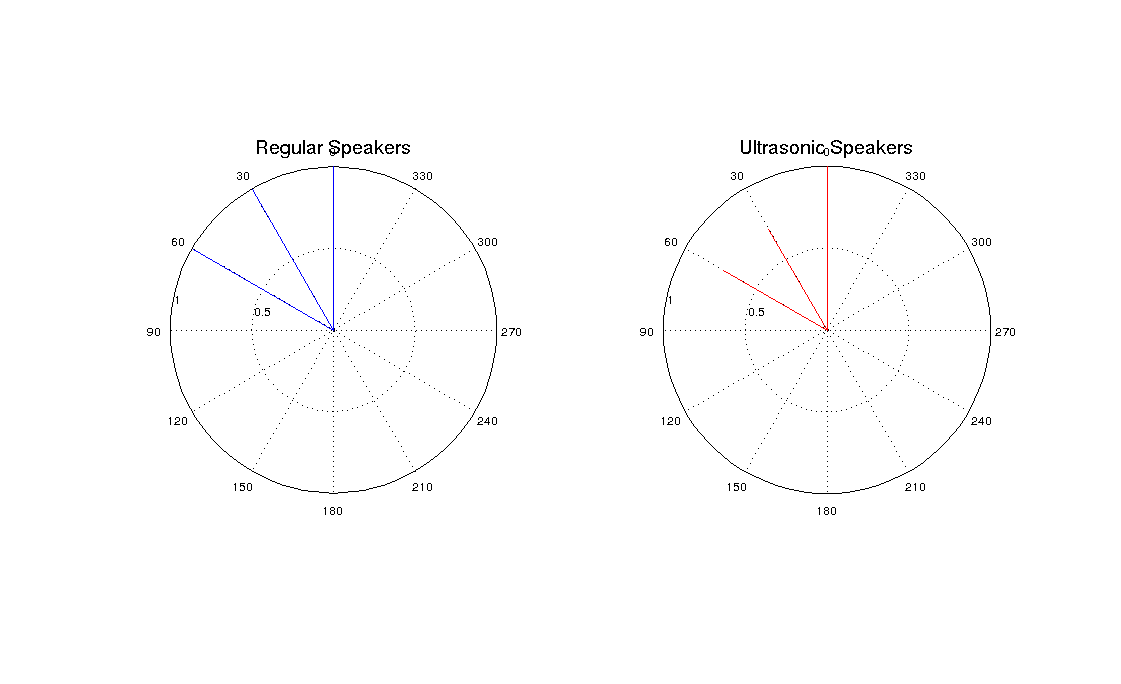
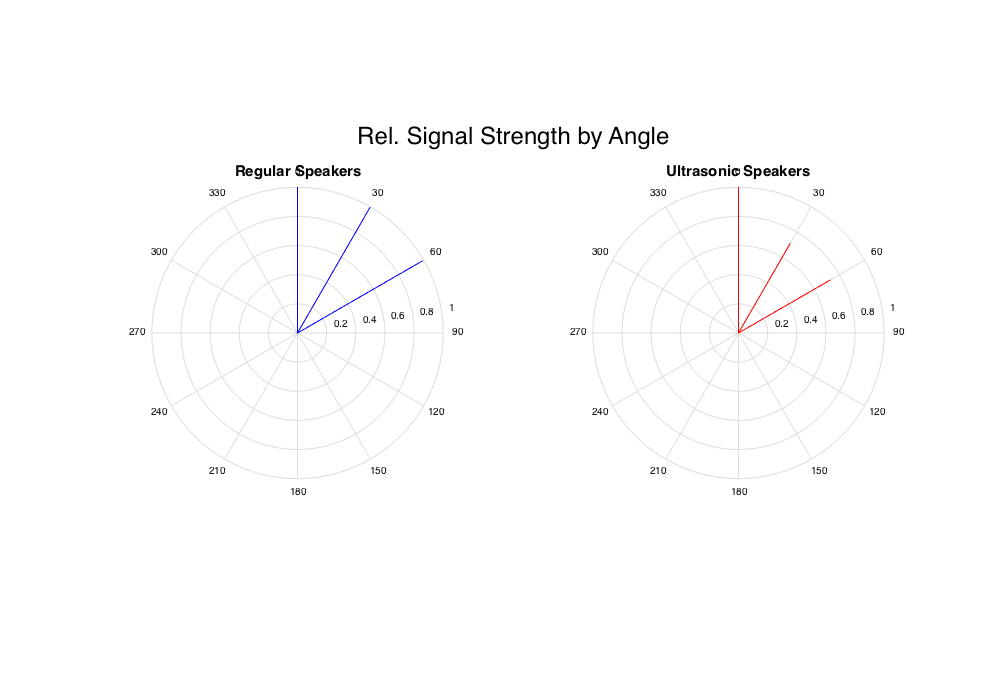
orient plots

diff --git a/plots/speakerData_jul9.m b/plots/speakerData_jul9.m
@@ -32,13 +32,13 @@ fig  = figure;
 subplot(1, 2, 1);
 rho_normal = [me_normal(1) 0  me_normal(2) 0 me_normal(3) 0];
 polar(theta, rho_normal, 'b');
-view(-90, 90);
+view(-270, -90);
 title('Regular Speakers', 'FontSize', 15);
 
 subplot(1, 2, 2);
 rho_arr198 = [me_arr198(1) 0  me_arr198(2) 0 me_arr198(3) 0];
 polar(theta, rho_arr198, 'r');
-view(-90, 90);
+view(-270, -90);
 title('Ultrasonic Speakers', 'FontSize', 15);
-
+text(10, 10, 'Rel. Signal Strength by Angle', 'FontSize', 20);
 
